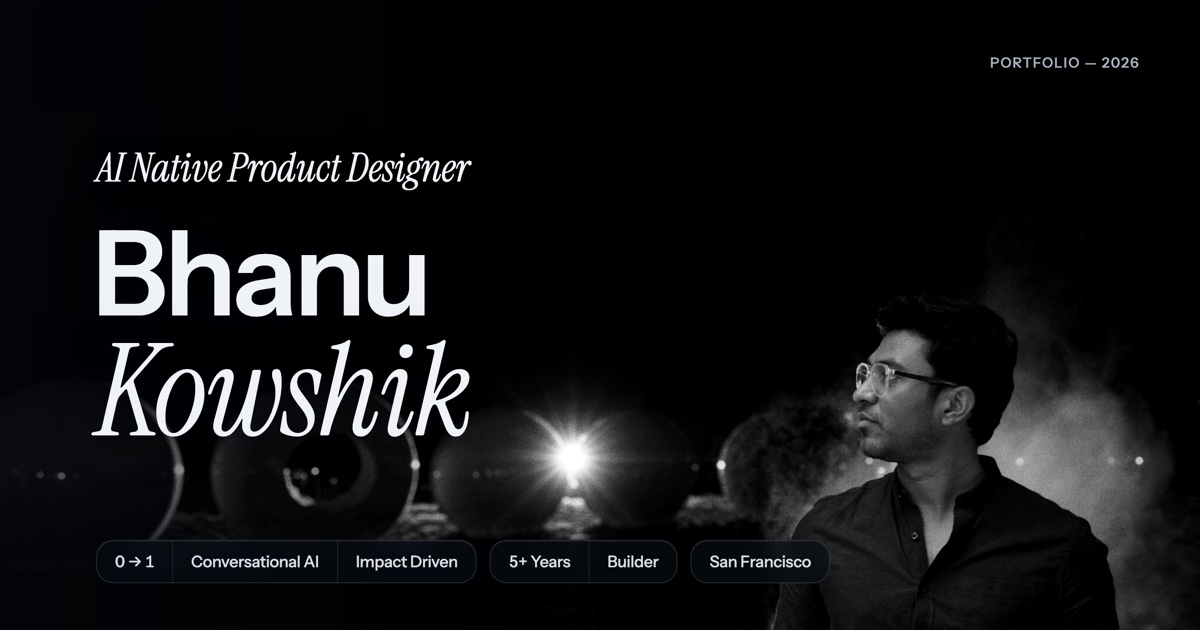
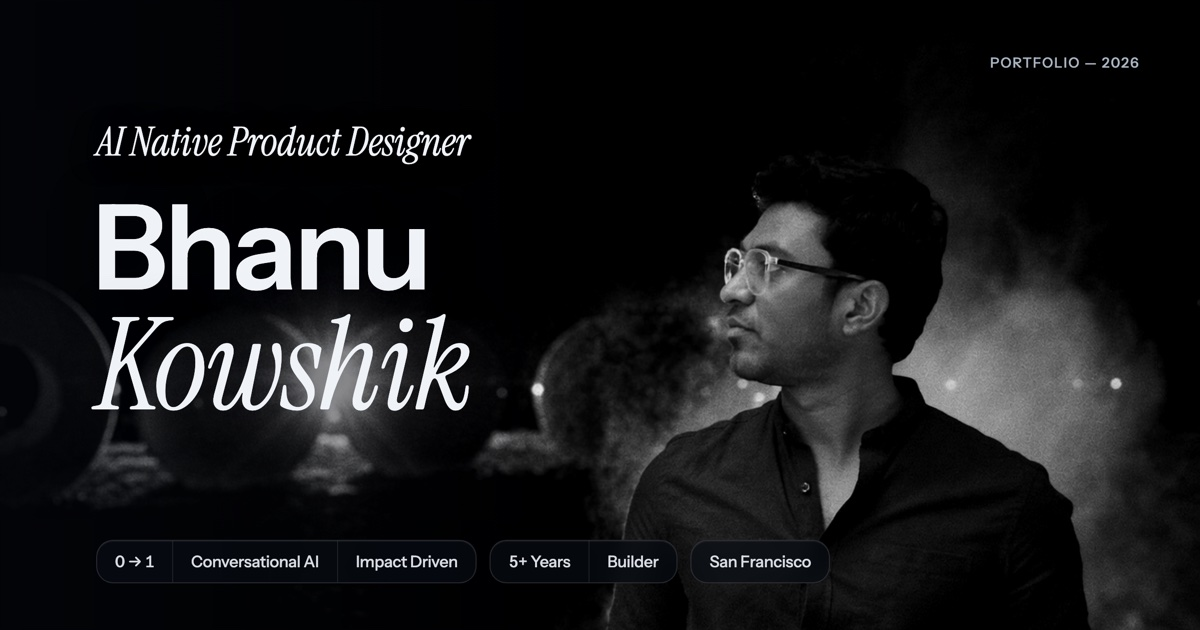
feat(share): og card v17 — he steps into the foreground
The plate zooms 1.38x anchored bottom-right: the portrait now owns the
right half at full presence, the orb bokeh rolls behind the serif, and the
name block rises a breath to clear the glow.

diff --git a/og-image.html b/og-image.html
@@ -26,7 +26,7 @@
     /* the plate — the whole scene, photographed; grayscale guarantees pure B&W */
     .plate { position: absolute; inset: 0; }
     .plate img {
-      width: 1200px; height: 675px; object-fit: cover; object-position: 50% 58%;
+      position: absolute; width: 1660px; left: -460px; top: -254px;
       filter: grayscale(1) contrast(1.05);
     }
 
@@ -42,15 +42,16 @@
       font-family: 'Instrument Serif', Georgia, serif; font-style: italic; font-weight: 400;
       font-size: 40px; line-height: 1; letter-spacing: -0.004em; color: #EFF3F8;
       text-shadow: 0 3px 26px rgba(2,4,8,.8);
+      top: 122px;
     }
     .n1 {
-      position: absolute; left: 92px; top: 214px; z-index: 4;
+      position: absolute; left: 92px; top: 188px; z-index: 4;
       font-weight: 600; font-size: 118px; line-height: 1.0;
       letter-spacing: -0.032em; color: #EFF3F8;
       text-shadow: 0 6px 44px rgba(2,4,8,.75);
     }
     .n2 {
-      position: absolute; left: 96px; top: 328px; z-index: 4;
+      position: absolute; left: 96px; top: 302px; z-index: 4;
       font-family: 'Instrument Serif', Georgia, serif; font-style: italic; font-weight: 400;
       font-size: 128px; line-height: 1.0; letter-spacing: -0.01em; color: #EFF3F8;
       text-shadow: 0 6px 44px rgba(2,4,8,.75);
